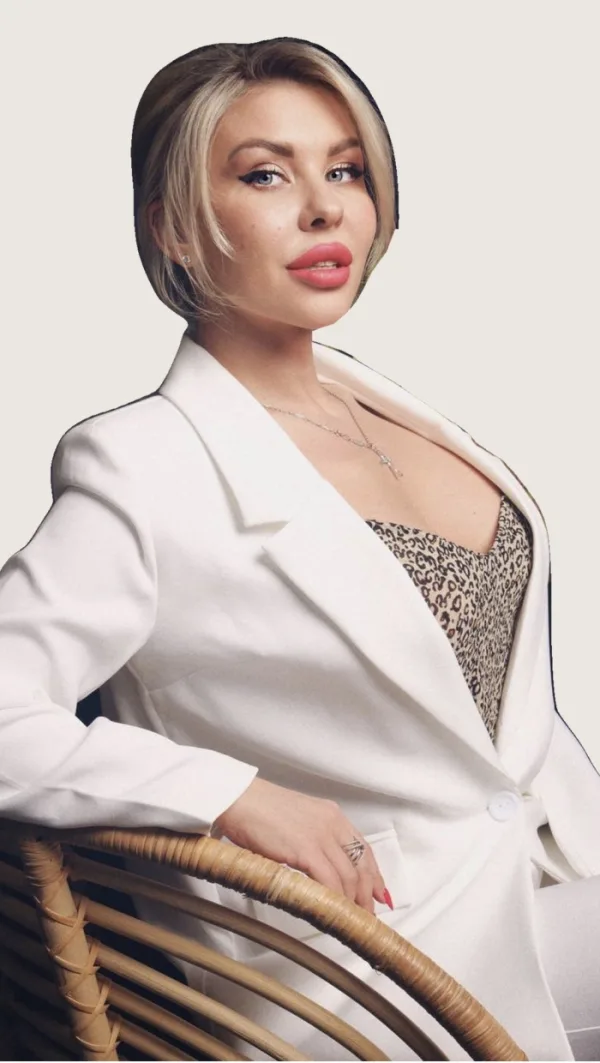
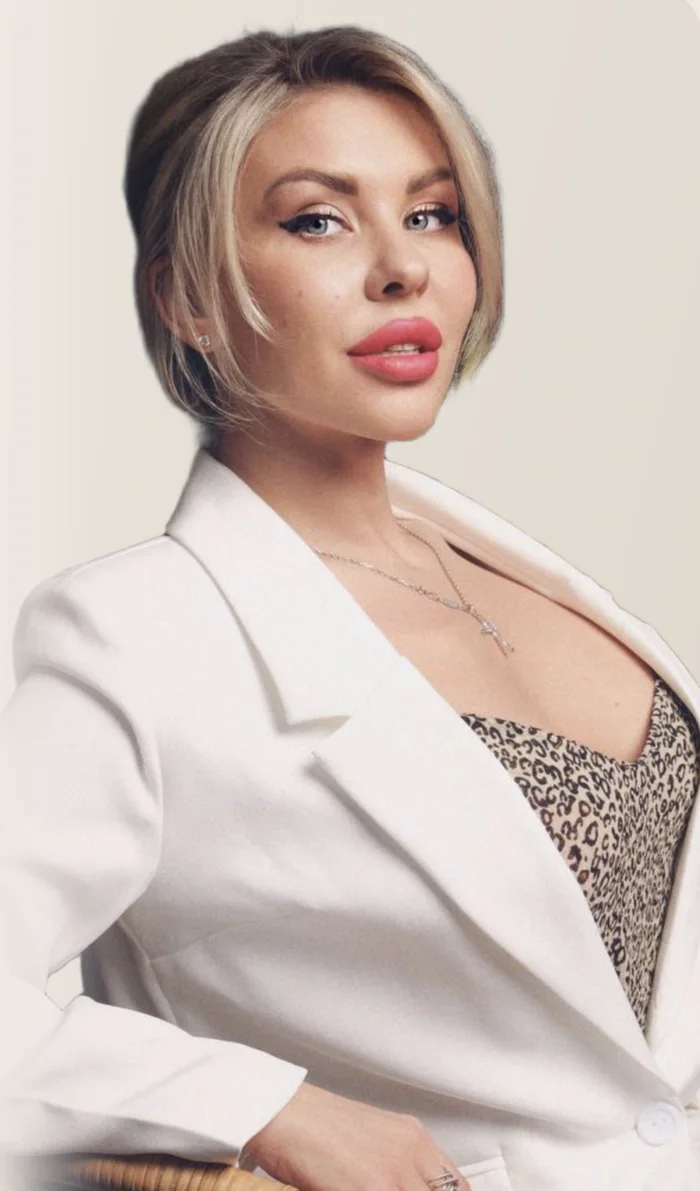
Девичник на телефоне: пиктограммы площадки 3×2, эксперты 2×2 с окном описания, 2 колонки в «Один день» и «8 направлений», СберЗдоровье на всю ширину; новые фото Дмитриевой и Какунова

diff --git a/src/pages/Wellness.tsx b/src/pages/Wellness.tsx
@@ -41,6 +41,7 @@ import Header from "@/components/Header";
 import Footer from "@/components/Footer";
 import WellnessRegistration from "@/components/WellnessRegistration";
 import VenueCarousel from "@/components/VenueCarousel";
+import { Dialog, DialogContent, DialogTitle } from "@/components/ui/dialog";
 import heroImg from "@/assets/wellness/wellness-hero.webp";
 import lectureImg from "@/assets/wellness/wellness-lecture.webp";
 import stilllifeImg from "@/assets/wellness/stilllife.webp";
@@ -159,7 +160,7 @@ const experts: Expert[] = [
   },
 ];
 
-const brands = ["Абрау-Дюрсо", "Natura Siberica", "Smartlife", "Vita Strada", "DEEP", "refeel", "Сбер Здоровье"];
+const brands = ["Абрау-Дюрсо", "Natura Siberica", "Smartlife", "Vita Strada", "DEEP", "refeel", "Сбер Здоровье"]; // «Сбер Здоровье» — на всю ширину
 const brandCategories = [
   { icon: Shirt, label: "Бренд белья" },
   { icon: Moon, label: "Шёлковые пижамы" },
@@ -249,9 +250,43 @@ const IconCircle = ({ icon: Icon, size = "md" }: { icon: typeof Heart; size?: "s
 
 const num = (i: number) => String(i + 1).padStart(2, "0");
 
+const ExpertDetails = ({ e }: { e: Expert }) => (
+  <>
+    <p className="font-body text-sm text-foreground mb-1">{e.regalia}</p>
+    {e.org && <p className="font-body text-sm text-foreground/80">{e.org}</p>}
+    <span className="w-8 h-px bg-primary my-4" />
+    {e.text && <p className="font-body text-sm text-muted-foreground leading-relaxed">{e.text}</p>}
+    {e.membership && (
+      <>
+        <p className="font-body text-xs font-medium text-foreground mb-2">Действующий член:</p>
+        <ul className="space-y-1.5">
+          {e.membership.map((m) => (
+            <li key={m} className="flex items-start gap-2 font-body text-xs text-muted-foreground leading-snug">
+              <span className="w-1 h-1 rounded-full bg-primary mt-1.5 shrink-0" />
+              {m}
+            </li>
+          ))}
+        </ul>
+      </>
+    )}
+    {e.features && (
+      <div className="grid grid-cols-3 gap-2 mt-5">
+        {e.features.map((f) => (
+          <div key={f.label} className="flex flex-col items-center text-center gap-1.5">
+            <IconCircle icon={f.icon} size="sm" />
+            <span className="font-body text-[10px] leading-tight text-muted-foreground">{f.label}</span>
+          </div>
+        ))}
+      </div>
+    )}
+    {e.slogan && <p className="font-display italic text-primary text-lg leading-snug mt-auto pt-5">{e.slogan}</p>}
+  </>
+);
+
 const Wellness = () => {
   // ключ перезапускает анимацию «отражения» заголовка
   const [mirrorKey, setMirrorKey] = useState(0);
+  const [openExpert, setOpenExpert] = useState<Expert | null>(null);
 
   return (
     <div className="min-h-screen bg-background">
@@ -438,55 +473,69 @@ const Wellness = () => {
               <SectionLabel>Спикеры и тренеры</SectionLabel>
               <TwoLineTitle first="Знакомим" second="с экспертами." />
             </motion.div>
-            <div className="grid md:grid-cols-2 gap-5 md:gap-6 mb-20 md:mb-28">
+            <div className="grid grid-cols-2 sm:grid-cols-1 md:grid-cols-2 gap-3 sm:gap-5 md:gap-6 mb-20 md:mb-28">
               {experts.map((e) => (
-                <motion.article
-                  key={e.surname}
-                  {...fadeUp}
-                  className="grid grid-cols-[1fr_0.85fr] sm:grid-cols-[1.15fr_0.85fr] gap-4 md:gap-6 bg-card border border-border rounded-2xl p-5 md:p-7"
-                >
-                  <div className="min-w-0 flex flex-col">
-                    <span className="self-start font-body text-[10px] uppercase tracking-[0.2em] text-primary bg-primary/10 rounded-full px-3 py-1 mb-4">Спикер</span>
-                    <h3 className="font-display text-3xl md:text-4xl text-foreground leading-[1] mb-3">
-                      {e.name}
-                      <br />
-                      <span className="italic text-primary">{e.surname}</span>
-                    </h3>
-                    <p className="font-body text-sm text-foreground mb-1">{e.regalia}</p>
-                    {e.org && <p className="font-body text-sm text-foreground/80">{e.org}</p>}
-                    <span className="w-8 h-px bg-primary my-4" />
-                    {e.text && <p className="font-body text-xs md:text-sm text-muted-foreground leading-relaxed">{e.text}</p>}
-                    {e.membership && (
-                      <>
-                        <p className="font-body text-xs font-medium text-foreground mb-2">Действующий член:</p>
-                        <ul className="space-y-1.5">
-                          {e.membership.map((m) => (
-                            <li key={m} className="flex items-start gap-2 font-body text-xs text-muted-foreground leading-snug">
-                              <span className="w-1 h-1 rounded-full bg-primary mt-1.5 shrink-0" />
-                              {m}
-                            </li>
-                          ))}
-                        </ul>
-                      </>
-                    )}
-                    {e.features && (
-                      <div className="grid grid-cols-3 gap-2 mt-5">
-                        {e.features.map((f) => (
-                          <div key={f.label} className="flex flex-col items-center text-center gap-1.5">
-                            <IconCircle icon={f.icon} size="sm" />
-                            <span className="font-body text-[10px] leading-tight text-muted-foreground">{f.label}</span>
-                          </div>
-                        ))}
-                      </div>
-                    )}
-                    {e.slogan && <p className="font-display italic text-primary text-lg leading-snug mt-auto pt-5">{e.slogan}</p>}
-                  </div>
-                  <div className="rounded-2xl overflow-hidden bg-muted/40 min-h-[260px]">
-                    <img src={e.photo} alt={`${e.name} ${e.surname}`} loading="lazy" className="w-full h-full object-cover object-top" />
-                  </div>
-                </motion.article>
+                <motion.div key={e.surname} {...fadeUp}>
+                  {/* Телефон: плитка 2×2, описание — по нажатию */}
+                  <button type="button" onClick={() => setOpenExpert(e)} className="sm:hidden block w-full text-left">
+                    <span className="relative block aspect-[3/4] rounded-2xl overflow-hidden bg-muted">
+                      <img src={e.photo} alt={`${e.name} ${e.surname}`} loading="lazy" className="absolute inset-0 w-full h-full object-cover object-top" />
+                      <span className="absolute inset-0 bg-gradient-to-t from-warm-black/80 via-transparent to-transparent" />
+                      <span className="absolute left-3 right-3 bottom-3">
+                        <span className="inline-block font-body text-[9px] uppercase tracking-[0.18em] text-primary-foreground bg-primary rounded-full px-2 py-0.5 mb-1.5">Спикер</span>
+                        <span className="block font-display text-2xl text-cream leading-[1]">
+                          {e.name}
+                          <br />
+                          <span className="italic text-[#FFB4AC]">{e.surname}</span>
+                        </span>
+                      </span>
+                    </span>
+                    <span className="block font-body text-xs text-foreground/80 leading-snug mt-2 line-clamp-2">{e.regalia}</span>
+                    <span className="block font-body text-[10px] uppercase tracking-[0.15em] text-primary mt-1">Подробнее →</span>
+                  </button>
+
+                  {/* Планшет и компьютер: текст слева, фото справа */}
+                  <article className="hidden sm:grid sm:grid-cols-[1.15fr_0.85fr] gap-6 h-full bg-card border border-border rounded-2xl p-7">
+                    <div className="min-w-0 flex flex-col">
+                      <span className="self-start font-body text-[10px] uppercase tracking-[0.2em] text-primary bg-primary/10 rounded-full px-3 py-1 mb-4">Спикер</span>
+                      <h3 className="font-display text-3xl md:text-4xl text-foreground leading-[1] mb-3">
+                        {e.name}
+                        <br />
+                        <span className="italic text-primary">{e.surname}</span>
+                      </h3>
+                      <ExpertDetails e={e} />
+                    </div>
+                    <div className="rounded-2xl overflow-hidden bg-muted/40 min-h-[260px]">
+                      <img src={e.photo} alt={`${e.name} ${e.surname}`} loading="lazy" className="w-full h-full object-cover object-top" />
+                    </div>
+                  </article>
+                </motion.div>
               ))}
             </div>
+
+            <Dialog open={!!openExpert} onOpenChange={(o) => !o && setOpenExpert(null)}>
+              <DialogContent className="max-w-md w-[calc(100%-2rem)] max-h-[88vh] overflow-y-auto p-0 gap-0 rounded-2xl">
+                {openExpert && (
+                  <>
+                    <div className="relative aspect-[4/5]">
+                      <img src={openExpert.photo} alt={`${openExpert.name} ${openExpert.surname}`} className="absolute inset-0 w-full h-full object-cover object-top" />
+                      <div className="absolute inset-0 bg-gradient-to-t from-warm-black/80 via-transparent to-transparent" />
+                      <div className="absolute left-5 bottom-5">
+                        <span className="inline-block font-body text-[10px] uppercase tracking-[0.2em] text-primary-foreground bg-primary rounded-full px-3 py-1 mb-3">Спикер</span>
+                        <DialogTitle className="font-display text-4xl font-normal text-cream leading-[1]">
+                          {openExpert.name}
+                          <br />
+                          <span className="italic text-[#FFB4AC]">{openExpert.surname}</span>
+                        </DialogTitle>
+                      </div>
+                    </div>
+                    <div className="flex flex-col p-5">
+                      <ExpertDetails e={openExpert} />
+                    </div>
+                  </>
+                )}
+              </DialogContent>
+            </Dialog>
           </div>
 
           {/* Бренды */}
@@ -504,16 +553,28 @@ const Wellness = () => {
                 </p>
               </motion.div>
               <div className="grid grid-cols-2 sm:grid-cols-4 gap-3 mb-3">
-                {brands.map((b, i) => (
-                  <motion.div
-                    key={b}
-                    {...fadeUp}
-                    transition={{ duration: 0.4, delay: 0.04 * i }}
-                    className="aspect-[3/2] bg-card border border-border rounded-xl flex items-center justify-center text-center px-3 hover:border-primary/40 transition-colors"
-                  >
-                    <span className="font-display text-lg md:text-xl text-foreground tracking-wide">{b}</span>
-                  </motion.div>
-                ))}
+                {brands.map((b, i) =>
+                  b === "Сбер Здоровье" ? (
+                    <motion.div
+                      key={b}
+                      {...fadeUp}
+                      transition={{ duration: 0.4, delay: 0.04 * i }}
+                      className="col-span-full rounded-xl flex items-center justify-center gap-3 py-6 md:py-7 text-white"
+                      style={{ background: "linear-gradient(90deg, #21A038 0%, #1DA0C9 100%)" }}
+                    >
+                      <span className="font-body font-semibold text-xl md:text-2xl tracking-wide">СберЗдоровье</span>
+                    </motion.div>
+                  ) : (
+                    <motion.div
+                      key={b}
+                      {...fadeUp}
+                      transition={{ duration: 0.4, delay: 0.04 * i }}
+                      className="aspect-[3/2] bg-card border border-border rounded-xl flex items-center justify-center text-center px-3 hover:border-primary/40 transition-colors"
+                    >
+                      <span className="font-display text-lg md:text-xl text-foreground tracking-wide">{b}</span>
+                    </motion.div>
+                  ),
+                )}
               </div>
               <div className="grid grid-cols-3 sm:grid-cols-6 gap-3">
                 {brandCategories.map((c) => (
@@ -615,14 +676,14 @@ const Wellness = () => {
               25 октября 2026
             </span>
           </motion.div>
-          <div className="grid sm:grid-cols-2 lg:grid-cols-3 gap-x-8 gap-y-8">
+          <div className="grid grid-cols-2 lg:grid-cols-3 gap-x-4 gap-y-8 md:gap-x-8">
             {experience.map((e, i) => (
-              <motion.div key={e.title} {...fadeUp} transition={{ duration: 0.5, delay: 0.05 * i }} className="flex items-start gap-4">
+              <motion.div key={e.title} {...fadeUp} transition={{ duration: 0.5, delay: 0.05 * i }} className="flex flex-col sm:flex-row items-start gap-3 sm:gap-4">
                 <IconCircle icon={e.icon} />
                 <div>
                   <p className="font-numbers text-xs text-primary mb-1">{num(i)}</p>
-                  <h3 className="font-display text-xl text-foreground leading-tight">{e.title}</h3>
-                  <p className="font-body text-sm text-muted-foreground">{e.text}</p>
+                  <h3 className="font-display text-lg md:text-xl text-foreground leading-tight">{e.title}</h3>
+                  <p className="font-body text-xs md:text-sm text-muted-foreground">{e.text}</p>
                 </div>
               </motion.div>
             ))}
@@ -637,7 +698,7 @@ const Wellness = () => {
             <SectionLabel>Зоны девичника</SectionLabel>
             <TwoLineTitle first="Восемь" second="направлений заботы." />
           </motion.div>
-          <div className="grid sm:grid-cols-2 lg:grid-cols-4 gap-5">
+          <div className="grid grid-cols-2 lg:grid-cols-4 gap-3 md:gap-5">
             {zones.map((z, i) => (
               <motion.article
                 key={z.title}
@@ -647,16 +708,16 @@ const Wellness = () => {
               >
                 <div className="relative aspect-square overflow-hidden">
                   <img src={z.img} alt={z.title} loading="lazy" className="w-full h-full object-cover transition-transform duration-700 group-hover:scale-105" />
-                  <span className="absolute top-3 left-3 font-numbers text-sm text-primary bg-background/90 backdrop-blur rounded-full w-10 h-10 flex items-center justify-center">
+                  <span className="absolute top-2 left-2 md:top-3 md:left-3 font-numbers text-xs md:text-sm text-primary bg-background/90 backdrop-blur rounded-full w-8 h-8 md:w-10 md:h-10 flex items-center justify-center">
                     {num(i)}
                   </span>
                 </div>
-                <div className="p-5">
+                <div className="p-3 md:p-5">
                   <div className="flex items-start gap-3 mb-2">
-                    <z.icon className="w-4 h-4 text-primary mt-1 shrink-0" />
-                    <h3 className="font-display text-lg text-foreground leading-tight">{z.title}</h3>
+                    <z.icon className="hidden md:block w-4 h-4 text-primary mt-1 shrink-0" />
+                    <h3 className="font-display text-base md:text-lg text-foreground leading-tight">{z.title}</h3>
                   </div>
-                  <p className="font-body text-sm text-muted-foreground leading-relaxed">{z.text}</p>
+                  <p className="font-body text-xs md:text-sm text-muted-foreground leading-relaxed">{z.text}</p>
                 </div>
               </motion.article>
             ))}
@@ -734,7 +795,7 @@ const Wellness = () => {
                 rel="noopener noreferrer"
                 title={pt.name}
                 {...fadeUp}
-                className="group aspect-[3/2] bg-background border border-border rounded-xl flex flex-col items-center justify-center text-center p-5 hover:border-primary/40 transition-colors"
+                className="group aspect-[3/2] bg-background border border-border rounded-xl flex flex-col items-center justify-center text-center p-3 md:p-5 overflow-hidden hover:border-primary/40 transition-colors"
               >
                 <div className="flex-1 w-full flex items-center justify-center">
                   <img src={pt.logo} alt={pt.name} loading="lazy" className={`${pt.logoClass} w-auto max-w-full object-contain opacity-80 group-hover:opacity-100 transition-opacity`} />
@@ -747,11 +808,11 @@ const Wellness = () => {
               target="_blank"
               rel="noopener noreferrer"
               {...fadeUp}
-              className="aspect-[3/2] border border-dashed border-primary/40 bg-primary/5 rounded-xl flex flex-col items-center justify-center text-center p-4 hover:bg-primary/10 transition-colors"
+              className="aspect-[3/2] border border-dashed border-primary/40 bg-primary/5 rounded-xl flex flex-col items-center justify-center text-center p-3 md:p-4 overflow-hidden hover:bg-primary/10 transition-colors"
             >
-              <Store className="w-6 h-6 text-primary mb-2" />
-              <p className="font-display text-xl text-primary">Стать партнёром</p>
-              <p className="font-body text-[10px] uppercase tracking-[0.2em] text-muted-foreground mt-1">Напишите организаторам</p>
+              <Store className="w-5 h-5 md:w-6 md:h-6 text-primary mb-1.5 md:mb-2" />
+              <p className="font-display text-base md:text-xl text-primary leading-tight">Стать партнёром</p>
+              <p className="font-body text-[9px] md:text-[10px] uppercase tracking-[0.15em] md:tracking-[0.2em] text-muted-foreground mt-1 leading-tight">Напишите организаторам</p>
             </motion.a>
           </div>
         </div>

diff --git a/src/components/VenueCarousel.tsx b/src/components/VenueCarousel.tsx
@@ -42,7 +42,7 @@ const VenueCarousel = () => {
       onMouseLeave={() => setPaused(false)}
     >
       {/* Пункты: активный подсвечен, клик переключает фото */}
-      <ul className="order-2 lg:order-1 grid grid-cols-2 lg:grid-cols-1 gap-2 lg:gap-1">
+      <ul className="order-2 lg:order-1 grid grid-cols-3 lg:grid-cols-1 gap-2 lg:gap-1">
         {spots.map((s, i) => {
           const on = i === active;
           return (
@@ -51,7 +51,7 @@ const VenueCarousel = () => {
                 type="button"
                 onClick={() => go(i)}
                 aria-current={on}
-                className={`relative w-full text-left flex items-center gap-3 lg:gap-4 rounded-xl px-3 py-3 lg:px-4 lg:py-4 transition-colors ${
+                className={`relative w-full h-full flex flex-col items-center text-center gap-2 lg:flex-row lg:text-left lg:gap-4 rounded-xl px-2 py-3 lg:px-4 lg:py-4 transition-colors ${
                   on ? "bg-primary/10" : "hover:bg-muted/60"
                 }`}
               >
@@ -63,7 +63,7 @@ const VenueCarousel = () => {
                   <s.icon className="w-4 h-4 lg:w-5 lg:h-5" />
                 </span>
                 <span className="min-w-0">
-                  <span className={`block font-display text-base lg:text-xl leading-tight transition-colors ${on ? "text-foreground" : "text-foreground/70"}`}>
+                  <span className={`block font-display text-sm lg:text-xl leading-tight transition-colors ${on ? "text-foreground" : "text-foreground/70"}`}>
                     {s.title}
                   </span>
                   <span className="hidden lg:block font-body text-xs text-muted-foreground mt-0.5">{s.text}</span>
